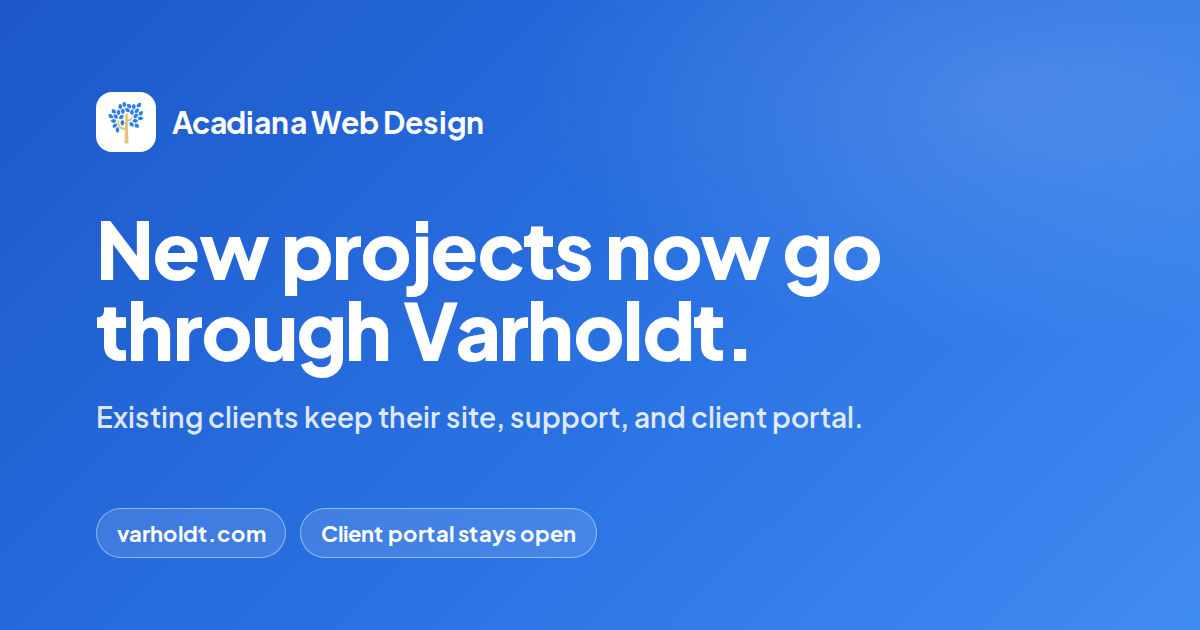
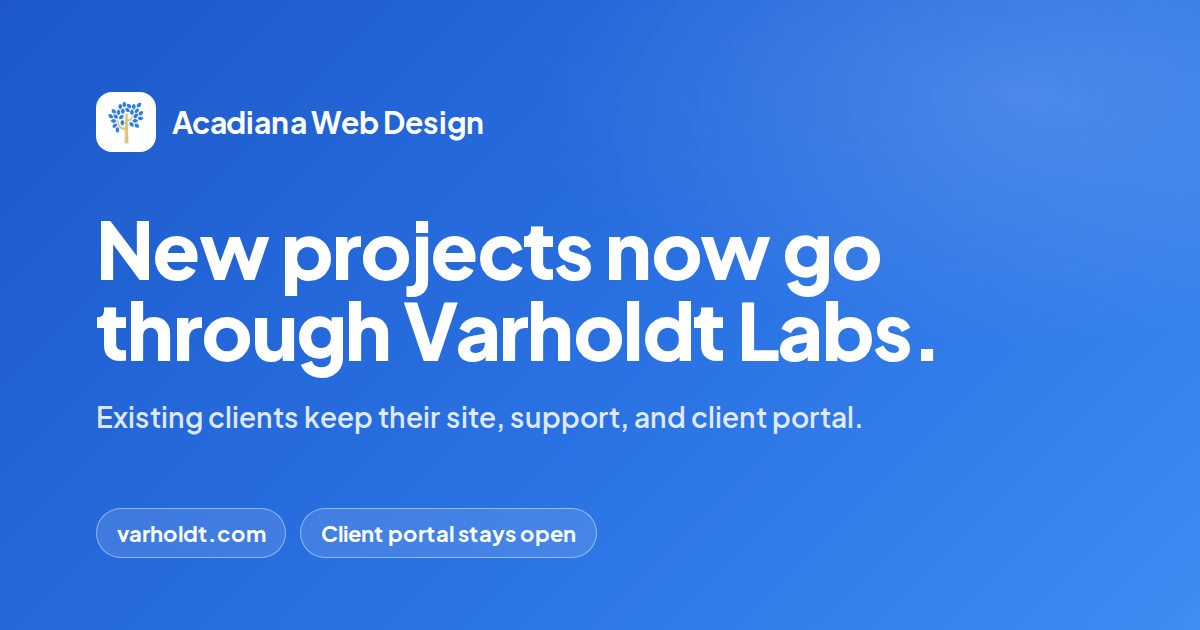
feat: send new AWD projects to Varholdt Labs (#12)
The transition page told visitors that new projects go through
"Varholdt", but that work now runs under the public name Varholdt Labs.
The homepage heading and body, the page and default titles, Open Graph
and Twitter titles, the site description, the Organization description,
the share image alt text and the share image itself now say Varholdt Labs.

The share image is rebuilt from the same HTML card as before, with only
the heading changed. It still wraps to two lines.

Unchanged: Acadiana Web Design stays the site name for existing clients,
and Varholdt AI LLC stays the legal entity in the footer, legalName,
the MSA and legal pages. The link is still https://www.varholdt.com/.
Portal, support, billing, API, Convex and redirect routes are untouched.

Docs: BUSINESS, ARCHITECTURE, OPERATIONS and GROWTH name Varholdt Labs
where they describe where new work goes now. BUSINESS says the LLC keeps
its name. Historical records and plans keep their wording.

Changed region(s): [[0.5858, 0.4825, 0.8017, 0.573]]

diff --git a/lib/seo/site.ts b/lib/seo/site.ts
@@ -11,14 +11,14 @@ export const DEFAULT_OG_IMAGE = {
   url: "/opengraph-image.png",
   width: 1200,
   height: 630,
-  alt: "Acadiana Web Design. New projects now go through Varholdt.",
+  alt: "Acadiana Web Design. New projects now go through Varholdt Labs.",
 } as const;
 
 export const SITE_PHONE = "+1-337-306-3705";
 export const SITE_EMAIL = "hello@acadianawebdesign.com";
 export const SITE_NAME = "Acadiana Web Design";
 export const SITE_DESCRIPTION =
-  "Acadiana Web Design no longer takes new website projects. Existing clients keep their site, support, and client portal. New custom software and AI projects go through Varholdt.";
+  "Acadiana Web Design no longer takes new website projects. Existing clients keep their site, support, and client portal. New custom software and AI projects go through Varholdt Labs.";
 
 export const VARHOLDT_URL = "https://www.varholdt.com/";
 export const LEGAL_ENTITY = "Varholdt AI LLC";
@@ -56,7 +56,7 @@ export function organizationSchema(baseUrl: string) {
     name: SITE_NAME,
     legalName: LEGAL_ENTITY,
     description:
-      "Support and client portal for existing Acadiana Web Design clients. New custom software and AI projects go through Varholdt.",
+      "Support and client portal for existing Acadiana Web Design clients. New custom software and AI projects go through Varholdt Labs.",
     logo: `${baseUrl}/logo.png`,
     url: baseUrl,
     telephone: SITE_PHONE,

diff --git a/app/page.tsx b/app/page.tsx
@@ -11,7 +11,7 @@ import {
   VARHOLDT_URL,
 } from "@/lib/seo/site";
 
-const title = "Acadiana Web Design | New projects now go through Varholdt";
+const title = "Acadiana Web Design | New projects now go through Varholdt Labs";
 
 export const metadata: Metadata = {
   // absolute avoids double-branding from the root title template
@@ -39,11 +39,11 @@ export default function Home() {
           An update from Acadiana Web Design
         </p>
         <h1 className="mt-4 text-4xl sm:text-5xl md:text-6xl font-black tracking-tight leading-[1.08] text-[hsl(var(--foreground))] font-[family-name:var(--font-sora)]">
-          New projects now go through Varholdt.
+          New projects now go through Varholdt Labs.
         </h1>
         <p className="mt-6 max-w-[52ch] text-base sm:text-lg leading-relaxed text-[hsl(var(--foreground))] font-[family-name:var(--font-sora)]">
           Acadiana Web Design is no longer taking new website projects. Layken
-          now takes on custom software and AI projects as Varholdt.
+          now takes on custom software and AI projects as Varholdt Labs.
         </p>
         <div className="mt-8">
           <a

diff --git a/app/layout.tsx b/app/layout.tsx
@@ -61,7 +61,7 @@ export const metadata: Metadata = {
   
   // Title & Description
   title: {
-    default: "Acadiana Web Design | New projects now go through Varholdt",
+    default: "Acadiana Web Design | New projects now go through Varholdt Labs",
     template: "%s | Acadiana Web Design",
   },
   description: SITE_DESCRIPTION,
@@ -75,7 +75,7 @@ export const metadata: Metadata = {
     type: "website",
     locale: "en_US",
     url: baseUrl,
-    title: "Acadiana Web Design | New projects now go through Varholdt",
+    title: "Acadiana Web Design | New projects now go through Varholdt Labs",
     description: SITE_DESCRIPTION,
     siteName: "Acadiana Web Design",
     images: [{ ...DEFAULT_OG_IMAGE }],
@@ -84,7 +84,7 @@ export const metadata: Metadata = {
   // Twitter Card (How links look on X)
   twitter: {
     card: "summary_large_image",
-    title: "Acadiana Web Design | New projects now go through Varholdt",
+    title: "Acadiana Web Design | New projects now go through Varholdt Labs",
     description: SITE_DESCRIPTION,
     images: [DEFAULT_OG_IMAGE.url],
     site: "@LLVarholdt",

diff --git a/next.config.ts b/next.config.ts
@@ -5,7 +5,7 @@ import { WebpackSha256 } from "./lib/webpackSha256";
  * Website packages are no longer sold. These were the public sales routes:
  * the quote form, city and industry landing pages, the blog, the self-serve
  * audit, and the Facebook cover generator. Old links land on the homepage,
- * which explains the move to Varholdt and links existing clients to the portal.
+ * which explains the move to Varholdt Labs and links existing clients to the portal.
  */
 const CITY_SLUGS =
   "lafayette|new-iberia|opelousas|crowley|breaux-bridge|abbeville|youngsville|scott";

diff --git a/docs/BUSINESS.md b/docs/BUSINESS.md
@@ -15,8 +15,8 @@ priorities from before the retirement are preserved in
 
 On 2026-10-28 Layken stopped selling Acadiana Web Design website packages. The
 public site no longer pitches the $0-down, $199-a-month plan. Its homepage tells
-visitors that new projects go through Varholdt at https://www.varholdt.com/ and
-sends existing clients to the portal. Old sales routes redirect there.
+visitors that new projects go through Varholdt Labs at https://www.varholdt.com/
+and sends existing clients to the portal. Old sales routes redirect there.
 
 The reason: the strongest current opportunities are software engagements under
 Varholdt, and the website offer has no documented unrelated market-rate close.
@@ -29,9 +29,10 @@ acquisition work and no paid advertising, and nothing builds it up on its own.
 
 Acadiana Web Design is the customer-facing trade name for the local website
 business operated by Varholdt AI LLC. Varholdt AI LLC is also the legal entity
-behind the Varholdt brand. Public pages may keep the Acadiana Web Design name so
-existing clients recognize their login and support. The support email and
-domain stay the same.
+behind Varholdt Labs, the public name for Layken's custom software and AI work.
+The LLC keeps its name on agreements, invoices and legal pages. Public pages may
+keep the Acadiana Web Design name so existing clients recognize their login and
+support. The support email and domain stay the same.
 
 - The geauxBIZ trade-name filing, reference 12276617, was paid and submitted on
   2026-08-06. It was still in process at the last verified check and should not
@@ -75,7 +76,7 @@ retired; `../agency-playground/` is the reference for Hub-facing plumbing.
 
 ## Commercial guardrails
 
-- Do not sell or quote new website packages. Send new work to Varholdt.
+- Do not sell or quote new website packages. Send new work to Varholdt Labs.
 - Do not promise ownership or scope outside an issued Order Form.
 - Never edit an issued Order Form. A change for an existing client means a new
   Order Form version.

diff --git a/docs/ARCHITECTURE.md b/docs/ARCHITECTURE.md
@@ -57,7 +57,7 @@ The package manifest is authoritative:
 Website packages stopped selling on 2026-10-28. The former sales routes
 (`/onboarding`, `/quote`, city and industry pages, `/websites-for-*`,
 `/services/*`, `/blog`, `/audit`, `/audit/request/[token]`, and `/fb-cover`)
-permanently redirect to `/`, which sends new work to Varholdt and existing
+permanently redirect to `/`, which sends new work to Varholdt Labs and existing
 clients to the portal. `RETIRED_SALES_ROUTES` in `next.config.ts` is the list;
 `tests/retiredSalesRoutes.test.ts` checks that portal, admin, legal, API, and
 preview routes stay outside it. The audit backend in Convex is unchanged but no

diff --git a/docs/GROWTH.md b/docs/GROWTH.md
@@ -28,7 +28,7 @@ evidence.
 Acadiana Web Design stopped selling website packages on 2026-10-28 (see
 `BUSINESS.md`). There is no acquisition work: no quote form, no outreach, no
 ads, no content cadence, and no referral asks. The public homepage sends new
-work to Varholdt. Everything below this section is the record of what was
+work to Varholdt Labs. Everything below this section is the record of what was
 tried. None of it is active, and none of it should be restarted without a new,
 dated owner decision.
 

diff --git a/docs/OPERATIONS.md b/docs/OPERATIONS.md
@@ -266,7 +266,7 @@ A deploy is not verification. Confirm the actual client path.
 No public page renders the quote form since 2026-10-28, and `/quote` redirects
 home. The recipient project and credentials stay configured. A new lead with
 source `agency-quote-form` would come from a stale tab or a direct POST; treat
-it as a referral to Varholdt, not a website sale.
+it as a referral to Varholdt Labs, not a website sale.
 
 The notes below describe the intake as it was built.
 
